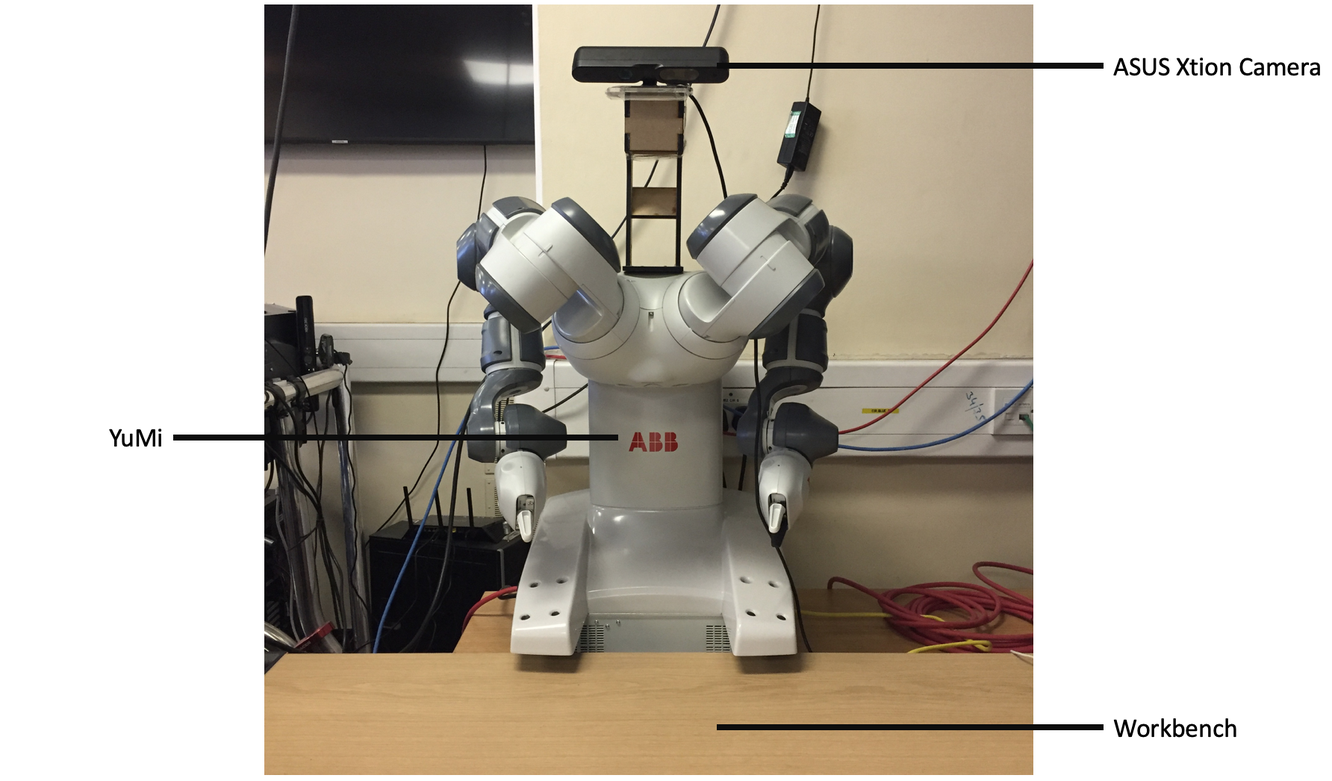
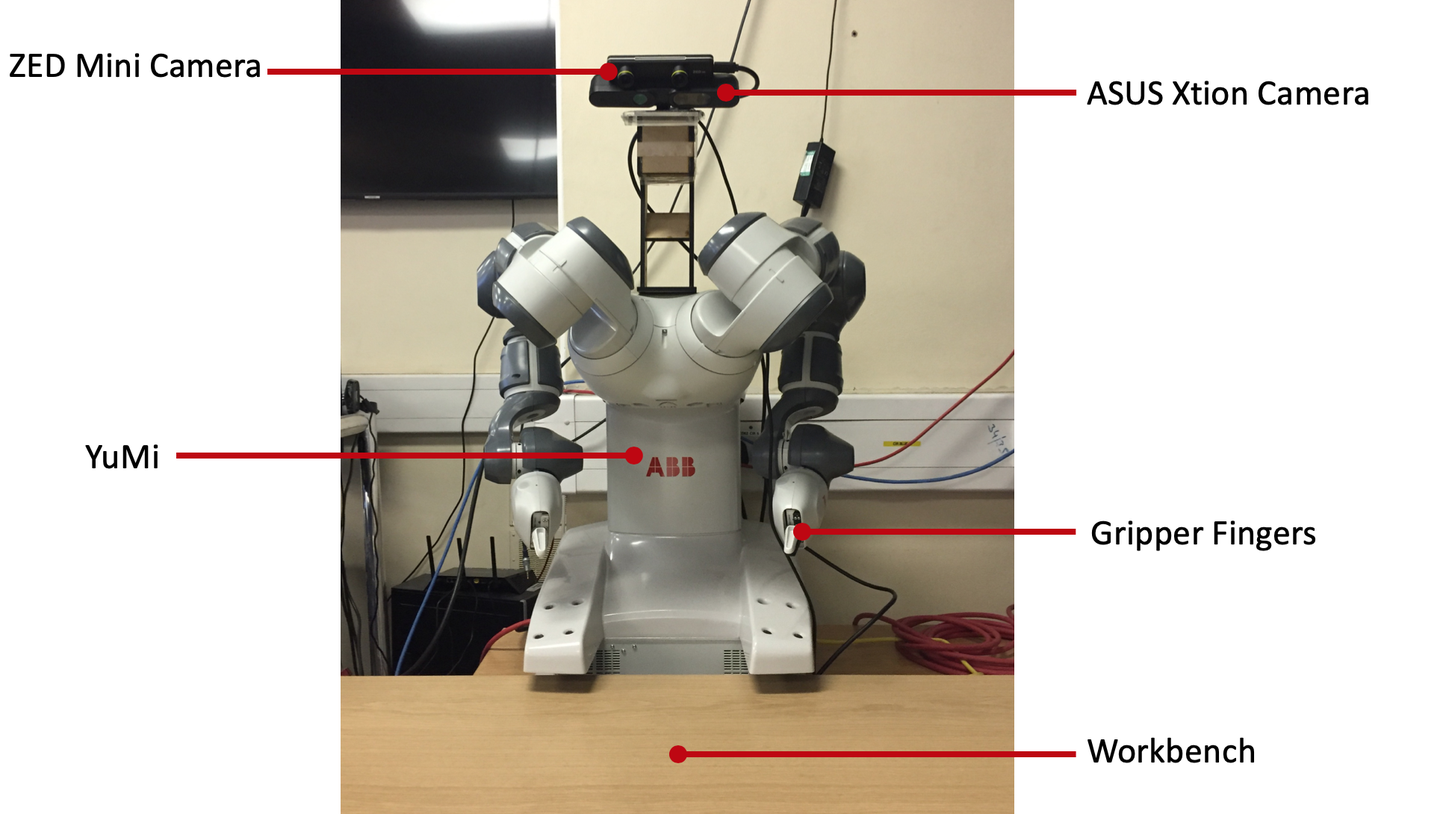
Updates from Overleaf

diff --git a/background/background.tex b/background/background.tex
@@ -25,7 +25,7 @@ The purpose of robotic motion planning is to seek the solution of the problem of
 
 \begin{itemize}
     \item \textbf{Work Space:} The physical space where the robot operates.
-    \item \textbf{Configuration/State Space:} The configuration that describes the robot pose. For a solid 3D robot like YuMi, it can perform both rotation and translation. Therefore, a configuration needs 6 parameters: (x, y, z) for translation and (roll, pitch, yaw) for rotation, whose relationships are shown in Figure \ref{rpy}.
+    \item \textbf{Configuration/State Space:} The configuration that describes the robot pose. For a solid 3D robot like YuMi, it can perform both translation and rotation. Therefore, a configuration needs 6 parameters: (x, y, z) for translation and (roll, pitch, yaw) for rotation, whose relationships are shown in Figure \ref{rpy}.
 \end{itemize}
 
 \begin{figure}[H]
@@ -44,17 +44,33 @@ The purpose of robotic motion planning is to seek the solution of the problem of
 
 According to \citep{OMPLPrim20:online}, there are plenty of methods still applicable in many scenarios, including exact and approximate cell decomposition, control-based methods, potential fields, and randomized planning. The summary of each method is as follow.
 
+\begin{figure}[H]
+\centering
+\includegraphics[width = \columnwidth]{background/cell.png}
+\caption{From left to right: approximate cell decomposition, exact cell decomposition, and motion planning using exact cell decomposition. The blue regions are obstacles. \citep{celldecom}}
+\label{cell}
+\end{figure}
+
 \begin{itemize}
-    \item \textbf{Exact and Approximate Cell Decomposition:} This approach partitions the work space into discrete cells that corresponding to free space, where edges represent adjacency among cells and vertices indicate the individual cells. Therefore, the motion planning problem becomes a search from starting cell to the cell with goal position. This method has a trade off when setting the grid resolution. Coarser grid gives a faster search, but cannot find path for narrow parts of free space. Moreover, the number of points on the grid is exponentially proportional to configuration space dimension, which is inappropriate for this project.
-    
+    \item \textbf{Exact and Approximate Cell Decomposition:} This approach partitions the work space into discrete cells that corresponding to free space, where edges represent adjacency among cells and vertices indicate the individual cells (see Figure \ref{cell}). Therefore, the motion planning problem becomes a search from starting cell to the cell with goal position. This method has a trade off when setting the grid resolution. Coarser grid gives a faster search, but cannot find path for narrow parts of free space. Moreover, the number of points on the grid is exponentially proportional to configuration space dimension, which is inappropriate for this project.
+
     \item \textbf{Control-based Methods:} This method employed control theory and operates in continuous space. It typically uses feedback loops to manipulate the robot with minimal error. However, in complex dynamics environments, it is hard to calculate a feasible trajectory and the valid motions will be restricted.
-    
-    \item \textbf{Potential Fields:} This technique computes a vector at each point in the work space by summing up the an attractive force emanating from the goal, and a repulsive force from all obstacles. It treats the configuration of robot as a point in a potential field. Although it only requires little computation, navigating using gradient descent to follow the potentials to goal can fail due to local minima in the field.
+\end{itemize}
+
+\begin{figure}[H]
+\centering
+\includegraphics[width = 0.4\columnwidth]{background/potentialfield.png}
+\caption{The potential fields when there is a goal and an obstacle \citep{potential}}
+\label{potentialexample}
+\end{figure}
+
+\begin{itemize}
+    \item \textbf{Potential Fields:} This technique computes a vector at each point in the work space by summing up the an attractive force emanating from the goal, and a repulsive force from all obstacles (see Figure \ref{potentialexample}). It treats the configuration of robot as a point in a potential field. Although it only requires little computation, navigating using gradient descent to follow the potentials to goal can fail due to local minima in the field.
     
     \item \textbf{Randomized Planning:} Randomization can be effective in motion planning. For example, in potential fields, it has been shown that Brownian motions where applying a random action for a specific amount of time can effectively guide a system out of the local minima.
 \end{itemize}
 
-The state-of-art sampling-based motion planning was inspired by randomization \citep{OMPLPrim20:online}, which employs sampling of the configuration space of the robot to effectively answer planning queries. It is especially suitable for systems with many degrees of freedom or differential constraints. Due to motion constraints and size of configuration space, traditional methods can spend a long time to address these problems. While sampling-based planning reasons over a finite set of configurations and connects these samples though collision free paths. Usually, this method gives a probability to complete, as the the number of samples reasoned increases, the probability will converge to 1 if a solution exists. Nevertheless, it cannot determine if a problem has no solution, which can only be speculated by low probability. 
+The state-of-art sampling-based motion planning was inspired by randomization \citep{OMPLPrim20:online}, which employs sampling of the configuration space of the robot to effectively answer planning queries. It is especially suitable for systems with many degrees of freedom or differential constraints. Due to motion constraints and size of configuration space, traditional methods can spend a long time to address these problems. While sampling-based planning reasons over a finite set of configurations and connects these samples through collision free paths. Usually, this method gives a probability to complete, as the the number of samples reasoned increases, the probability will converge to 1 if a solution exists. Nevertheless, it cannot determine if a problem has no solution, which can only be speculated by low probability. 
 
 There are many existing sampling-based algorithms, such as Rapidly-expanding Random Trees \citep{RRT}, Probabilistic Roadmap Method \citep{Kavraki1996ProbabilisticRF}, Kinodynamic Planning by Interior-Exterior Cell Exploration \citep{Sucan2012AST} etc. Two typical planners are discussed below.
 
@@ -94,20 +110,22 @@ In this case, after defining the configuration space, only start state, goal sta
 
 \section{Camera's Choice}
 
-Due to the fact that this project requires 3D localization of interested objects (shoes, shoe hole etc.), the camera must be able to provide depth information, which allows user to segment images. There are two types of RGB-D cameras available in the Lab, ASUS Xtion PRO and Microsoft Kinect.
+Due to the fact that this project requires 3D localization of interested objects (shoes, shoe hole etc.), the camera must be able to provide depth information, which allows user to segment images. There are two types of RGB-D cameras available in the Lab, ASUS Xtion PRO and Microsoft Kinect. Both cameras provide similar functionalities, they all have an infrared emitter (leftmost), RGB camera (middle), and an infrared depth camera (rightmost). Their resolutions are also the same, which is $640 \times 480$. Considering the ASUS Xtion PRO has already been fixed on the robot, I used it directly for this project.
 
 \begin{figure}[H]
 \centering
-\subfigure[ASUS Xtion PRO]{\includegraphics[width = 0.45\columnwidth, height = 40mm]{background/asus.jpg}}
-\subfigure[Microsoft Kinect]{\includegraphics[width = 0.45\columnwidth, height = 36mm]{background/kinect.png}}
-\caption{Two available cameras}
+\subfigure[ASUS Xtion PRO]{\includegraphics[width = 0.35\columnwidth]{background/asus.jpg}}
+\subfigure[Microsoft Kinect]{\includegraphics[width = 0.3\columnwidth]{background/kinect.png}}
+\subfigure[ZED Mini]{\includegraphics[width = 0.3\columnwidth]{background/zedmini.jpg}}
+\caption{Three available cameras}
 \label{camera}
 \end{figure}
 
-Both cameras provide similar functionalities, they all have a infrared emitter (leftmost), RGB camera (middle), and a infrared depth camera (rightmost). Considering the ASUS Xtion PRO has already been fixed on the robot, I opted to use it directly for this project.
+In the later stage of this project, another stereo camera named ZED Mini became available. It has two lenses with a separate film frame for each lens, which allows it to simulate human vision, and capture three-dimensional images. Its resolution is up to $2208 \times 1242$, much higher than that of ASUS Xtion and Kinect. Therefore, I ended up choosing this camera.
+
 
 \section{Object Detection} \label{od}
-Object detection is considered as one main part of computer vision, which can provide 2D positions of interested objects from an image. With the help of corresponding depth information provided by ASUS Xtion PRO, 3D location can then be determined. At present, there are several existing methods to detect the object's 2D location.
+Object detection is considered as one main part of computer vision, which can provide 2D positions of interested objects from an image. With the help of corresponding depth information provided by ASUS Xtion or ZED Mini, 3D location can then be determined. At present, there are several existing methods to detect the object's 2D location.
 
 Due to the fact that the number of occurrences of interested objects is not fixed, and they might have different spatial locations within the image and different aspect ratios, taking different regions from the image and using CNN to classify the presence of the object could computationally blow up \citep{RCNNFast65:online}. Therefore, plenty of detection algorithms like R-CNN \citep{RCNN}, YOLO \citep{YOLO} etc have been developed to tackle this problem. 
 
@@ -128,7 +146,7 @@ In order to manipulate objects using robot, the 3D orientation of interested obj
 
 There are several existing state-of-the-art 6D object pose estimation (3D location and 3D orientation) methods. \citep{singleshot} proposed a real-time single-shot approach to predict object's 6D pose, which does not require additional post-processing. They first employed CNN to compute 2D image locations of projected vertices of the object’s 3D bounding box. Then a PnP algorithm is utilized to estimated 6D pose. However, these kind of methods become unreliable when low-texture or low-resolution inputs are given. \citep{PoseCNN} introduced PoseCNN, estimates the object's 3D rotation by regressing to a quaternion representation using only color images. They also presented a novel loss function to let PoseCNN handle symmetric objects. Depth data is used for further refinement. \citep{DeepIM} presented DeepIM, given an initial pose estimation, it can refine the object's pose by matching the rendered image against the observed image iteratively. DeepIM only uses color images to introduce the untangled pose representation, which is independent of the 3D object model's coordinate frame and the object size. \citep{DenseFusion} proposed DenseFusion, which processes both color and depth information separately and employs a dense fusion network to extract pixel-wise dense feature embedding, from which the pose of known objects can be predicted. Moreover, it is robust against occlusions and outperforms PoseCNN after refinement on two benchmarks for 6D pose estimation, YCB-Video \citep{PoseCNN} and LineMOD \citep{linemod} respectively.
 
-However, these algorithms only compute object (shoe) pose, after retraining them using shoe dataset which needs to be prepared by myself. In addition, they cannot calculate the orientation of specific region on the interested object, such as shoe holes'. In order to achieve this function, the 6D pose correlations of shoe holes and centroid of shoe need to be determined. Then once these algorithms compute shoe pose, the pose of holes can be determined accordingly. Nevertheless, calculating these correlations are difficult and time consuming. Therefore, based on these considerations, those 6D pose estimation approaches cannot be my first choice.
+However, these algorithms only compute object (shoe) pose, after retraining them using shoe dataset which needs to be prepared by myself. In addition, they cannot calculate the orientation of specific region on the interested object, such as shoe holes'. In order to achieve this function, the 6D pose correlations of shoe holes and centroid of shoe need to be determined. After that, once these algorithms compute shoe pose, the pose of holes can be determined accordingly. Nevertheless, calculating these correlations are difficult and time consuming. Therefore, based on these considerations, those 6D pose estimation approaches cannot be my first choice.
 
 To tackle this problem, another method I came up with is inspired by Random Sample Consensus (RANSAC) \citep{rsc}. RANSAC can estimate parameters of mathematical model from a set of data containing both inliers and outliers. It selects random subset of the original data interatively to form hypothetical inliers and then tests this hypothesis as follows:
 
@@ -152,7 +170,7 @@ Each time of this procedure will produce a refined model with a corresponding er
 
 RANSAC can estimate the model parameters accurately even if the number of outliers is large. Its computation time is determined by the number of iterations and thus there is a trade-off between time and accuracy. Furthermore, the problem-specific thresholds need to be set as well. Figure \ref{ransac} is the example of applying RANSAC on 2D dataset to estimate a best fitting line.
 
-For this project, the orientation of a shoe hole can be represented as the normal vector of it. The method I introduce is by applying RANSAC technique to construct a plan of interested shoe hole, then computing the normal vector accordingly. Moreover, with the help of some pre-defined constraints and data processing techniques, the resulting orientation is accurate and robust.
+For this project, the orientation of a shoe hole can be represented as the normal vector of it. The method I introduce is by applying RANSAC technique to construct a plane of interested shoe hole, then computing the normal vector accordingly. Moreover, with the help of some pre-defined constraints and data processing techniques, the accuracy and robustness of resulting orientation can be improved.
 
 \section{System and Software}
 All programs of this project will run under Ubuntu system. ROS will act as the middleware between YuMi and the software, which creates a network of Nodes in order to control different functionalities of the robot. By sending messages from one Node to others, communication can be achieved between Nodes. To be specific, the sender advertises on a given topic, while the receiver subscribes the corresponding topic. After compiling a standalone program into a ROS package, it is able to run on the ROS network. In addition, these programs need to be written in Python or C++.

diff --git a/Implementation/implement_cv.tex b/Implementation/implement_cv.tex
@@ -1,9 +1,23 @@
 \chapter{Implementation - Computer Vision}
 
-This chapter will cover the implementation method on computer vision side of this project. The final outcome is to accurately obtain the 6D pose of the interested shoe hole. The entire code for this part can be seen in !!!!!!!!!!
+This chapter will cover the implementation methods on computer vision side of this project using either ASUS Xtion or ZED Mini. By adjusting some settings which will be discussed in this chapter, the algorithm works for both cameras. The entire code for this part can be seen in !!!!!!!!!!
 
 \section{Camera Setup}
-The communication between ASUS Xtion camera and ROS depends on $openni2$ package, which contains corresponding launch files. Using the command $roslaunch$ $openni2\_launch$ $openni2.launch$ can start the $openni2$ driver. After that, a list of camera topics including RGB, depth, and infrared images or point-clouds etc can be subscribed for further processing. For ASUS Xtion camera, the image resolution is $640 \times 480$. 
+The dependency package allow specific camera to communicate with ROS is shown in Table \ref{camerapackage}, which contains corresponding launch files. Entering the launch command in the terminal can start the package driver. After that, a list of camera topics including RGB, depth, and point-clouds etc can be subscribed for further processing. 
+
+\begin{table}[H]
+\centering
+\resizebox{\columnwidth}{!}{
+\begin{tabular}{||c||c|c||}
+\hline
+Camera & Dependency package & Launch command \\ \hline \hline
+ASUS Xtion & $openni2$ & $roslaunch$ $openni2\_launch$ $openni2.launch$ \\ \hline
+ZED Mini & $zed-ros-wrapper$ & $roslaunch$ $zed\_wrapper$ $zedm.launch$ \\ \hline
+\end{tabular}
+}
+\caption{The dependency packages and launch commands for Cameras}
+\label{camerapackage}
+\end{table}
 
 In ROS, video streams are represented by these sequences of images. If user would like to use ROS images in conjunction with OpenCV, $CvBridge$ package provides the converting interface, which is used in this project as well.
 
@@ -14,14 +28,32 @@ In ROS, video streams are represented by these sequences of images. If user woul
 \label{5.1}
 \end{figure}
 
-Figure \ref{5.1} displays the relative position between YuMi and the camera, which is defined as follows in the launch file so that ROS $TF$ can perform frame transform.
-
-\begin{minted}[frame=single, framesep=1.5mm, baselinestretch=1, fontsize=\footnotesize, linenos, breaklines]{xml}
-<node pkg="tf" type="static_transform_publisher" name="rgb_tf" required="true" args="0.2013 0.0641 0.6934 -0.0238 0.4836 -0.0141 0.875 /yumi_base_link /camera_link 100"/>
-\end{minted}
+Figure \ref{5.1} displays the relative position between YuMi and the two cameras. The cameras' location and orientation transform from YuMi frame $yumi\_base\_link$ are illustrated in Table \ref{cameraframeset} and written in the YuMi launch file (see !!!!!!!). These data are measured manually, which allow ROS $TF$ to perform frame transformation between any camera detected objects and YuMi in this project. 
+\begin{table}[H]
+\centering
+\resizebox{\columnwidth}{!}{
+\begin{tabular}{||c||c|c||}
+\hline
+Camera & Camera frame & Transform from $yumi\_base\_link$ \\ \hline\hline
+ASUS Xtion & /camera\_link & {[}0.2013, 0.0641, 0.6934, -0.0238, 0.4836, -0.0141, 0.875{]} \\ \hline
+ZED Mini & /zed\_left\_camera\_frame & {[}0.2263, 0.0541, 0.7134, -0.0238, 0.4836, -0.0141, 0.875{]} \\ \hline
+\end{tabular}
+}
+\caption{Transform settings between YuMi and cameras}
+\label{cameraframeset}
+\end{table}
 
 \section{Shoe Detection} \label{shoedetection}
-As mentioned in Background Chapter, YOLO9000 will be used for shoe detection. \citep{bjelonicYolo2018} developed the YOLO ROS interface called $darknet\_ros$, which supports using YOLO on both CPU and GPU. This package depends on OpenCV, boost (C++ library) and CUDA (if use Nvidia GPU for faster processing). Detailed installation and setup instructions can be found in User Guide Chapter. By adding different version of $.weights$ and $.cfg$ files, creating corresponding configuration file ($yolo.yaml$), then pointing to the new $yolo.yaml$ file in the $darknet\_ros$ launch file, different version of YOLO can be used. Here, YOLO9000 is the choice.
+As mentioned in Background Chapter, YOLO9000 will be used for shoe detection. \citep{bjelonicYolo2018} developed the YOLO ROS interface called $darknet\_ros$, which supports using YOLO on both CPU and GPU. This package depends on OpenCV, boost (C++ library) and CUDA (if use Nvidia GPU for faster processing). Detailed installation and setup instructions can be found in User Guide Chapter. 
+
+\begin{figure}[H]
+\centering
+\includegraphics[width = 0.5\columnwidth]{images/ph.png}
+\caption{Important files in Yolo package}
+\label{yolofolder}
+\end{figure}
+
+By adding different version of $.weights$ and $.cfg$ files, creating corresponding configuration file ($yolo.yaml$), then pointing to the new $yolo.yaml$ file in the $darknet\_ros$ launch file, different version of YOLO can be used. Here, YOLO9000 is the choice.
 
 \begin{figure}[H]
 \centering
@@ -31,7 +63,7 @@ As mentioned in Background Chapter, YOLO9000 will be used for shoe detection. \c
 \label{5.2}
 \end{figure}
 
-In the $yolo.yaml$ file, the threshold value is set to 0.3, which means the results will be reported only if the prediction probability of detection classes exceeds this value. The file named $ros.yaml$ defines the names and some parameters of the publishers, subscribers and actions of $darknet\_ros$. Here, the input is set as camera topic $/camera/rgb/image\_raw$, which contains raw RGB images taken by ASUS Xtion. It publishes several topics but only $/darknet_ros/bounding\_boxes$ will be used in the following algorithms. The messages in this topic include the prediction class names of objects, their prediction probabilities and 2D bounding box coordinates ($xmin$, $xmax$, $ymin$, and $ymax$). If the category is predicted as 'shoe', the corresponding box coordinates will be recorded. By speeding up with GPU, $darknet\_ros$ can update the detection results approximately every 0.05 seconds.
+In the $yolo.yaml$ file, the threshold value is set to 0.3, which means the results will be reported only if the prediction probability of detection classes exceeds this value. The file named $ros.yaml$ defines the names and some parameters of the publishers, subscribers and actions of $darknet\_ros$. Here, the input is set as camera topic $/camera/rgb/image\_raw$, which contains raw RGB images taken by ASUS Xtion. It publishes several topics but only $/darknet\_ros/bounding\_boxes$ will be used in the following algorithms. The messages in this topic include the prediction class names of objects, their prediction probabilities and 2D bounding box coordinates ($xmin$, $xmax$, $ymin$, and $ymax$). If the category is predicted as 'shoe', the corresponding box coordinates will be recorded. By speeding up with GPU, $darknet\_ros$ can update the detection results approximately every 0.05 seconds.
 
 \begin{figure}[H]
 \centering
@@ -45,6 +77,8 @@ In the $yolo.yaml$ file, the threshold value is set to 0.3, which means the resu
 \end{figure}
 
 In addition, the shoe can be placed in different directions, making the real manipulation difficult in some cases, especially when it is vertically placed (Figure \ref{ver1} and \ref{ver2}). Therefore, under this circumstance, its orientation need to be adjusted. To achieve that, the 2D coordinates 'around' the shoe bounding box will be documented (code!!!!!!!!!!!!!!!!!!!!!!) and detailed adjustment implementation can be found in Section \ref{adj}. After adjustment, the direction of the shoe and the interested shoe hole is considered to be toward the side of the camera.
+
+\section{Required Locations for Shoe Pose Adjustment:}
 
 \section{Shoe Hole Tracking}
 Since the shoe is marked, shoe hole detection can be achieved with color detection. Due to the fact that color tracking is very sensitive to light condition, perform this technique using entire image cannot provide accurate results. Therefore, the image will firstly be cropped using $xmin$, $xmax$, $ymin$, and $ymax$ value computed in previous section. Color detection only applies to the cropped region of interest.
@@ -88,7 +122,7 @@ The image of shoe always contains a certain level of high frequency noise. Vario
 
 The contour(s) of blue area(s) are then calculated. If at least one contour is discovered, the largest one in the mask will be used and its centroid is computed accordingly. Noticed that this centroid coordinate is for the cropped image. Therefore, $xmin$ and $ymin$ must be added back to give the coordinate of the original $640 \times 480$ image. Finally, if the contour area lies between a predefined range, the calculated centroid will be regarded as the centroid of the shoe hole and used for further computation.
 
-\section{3D Location Estimation} \label{3dlocationestimation}
+\section{3D Location of Shoe Hole} \label{3dlocationestimation}
 Once the real-time 2D position of shoe hole is calculated, its real-world 3D location can be obtained by looking at $/camera/depth\_registered/points$ topic. This topic contains depth registered point clouds as shown in Figure \ref{ptcloud}. depth align!!!!!!!!!!!!!!!!
 
 \begin{figure}[H]
@@ -118,7 +152,7 @@ Notice that the reading is based on camera frame called $camera\_link$ and camer
 \caption{Example of shoe hole 3D location estimation}
 \end{figure}
 
-\section{3D Orientation Estimation}
+\section{3D Orientation of Shoe Hole}
 Due to the fact that the surrounding area of the shoe hole can be regarded as a plane, as shown in Figure \ref{plane}, its 3D orientation is the same as that of the plane. In addition, the orientation of a plane can be obtained from its plane equation. For a plane $Ax + By + Cz = D$, its normal vector is $n = Ai + Bj + Ck$.
 
 \begin{figure}[H]
@@ -161,4 +195,4 @@ The final $norm\_shoe\_hole$ are then be published to $TF$ topic as a transform 
 \end{figure}
 
 
-%\section{Stage Two...}
+\section{3D Orientation of Shoelace}

diff --git a/RequirementsCap/requirementscap.tex b/RequirementsCap/requirementscap.tex
@@ -3,7 +3,7 @@
 %The project specification should state clearly what the project is intended to deliver, including all hardware, software, simulation.
 
 \section{The Project Deliverable}
-The objective of this project is to solve of problem of putting shoe laces on a shoe using bi-manual robot YuMi. Starting with one arm holding the shoelace, YuMi should detect a shoe hole and pass the shoelace through it by planning an arm trajectory. For more challenging version, YuMi will also plan sequences of trajectories to completing more holes up to the whole shoe.
+The objective of this project is to solve of problem of putting shoe laces on a shoe using bi-manual robot YuMi. Starting with one arm holding the shoelace, YuMi should detect a shoe hole and pass the shoelace through it by planning an arm trajectory. For more challenging version, YuMi will also plan sequences of trajectories to complete more holes up to the whole shoe.
 
 \begin{figure}[H]
 \centering
@@ -17,28 +17,30 @@ To constrain the problem, a shoe with distinct lace and hole colors will be used
 The core project deliverable can be divided into two main parts: Computer Vision and Motion Planning.
 
 \section{Computer Vision}
-This part aims to compute the real-time 6D pose of a specific shoe hole. The algorithm must provide an accurate and stable result so that it can be used for actual shoe lace manipulation. The following features should be delivered:
+The main aim of this part is to compute the real-time 6D pose of a specific shoe hole. There are also other tasks include providing the YuMi end-effector with the positional information needed for shoe pose adjustment, calculating the shoelace orientation before entering the second hole, etc. The algorithm must provide an accurate and stable result so that it can be used for actual shoe lace manipulation. The following features should be delivered:
 
 \begin{itemize}
+    \item \textbf{Camera Setup:} Setting up the working environment for two cameras and YuMi, measuring the position and orientation relationships between them, and installing camera dependency packages.
     \item \textbf{Shoe Detection:} Detecting the 2D bounding box of the shoe when it is placing on the workbench.
-    \item \textbf{Shoe Hole Tracking:} Detecting the 2D position of interested shoe hole and its contour area
-    \item \textbf{3D Location Estimation:} Computing the 3D real-world location of the centroid of that hole
-    \item \textbf{3D Orientation Estimation:} Computing the 3D orientation of that hole
-    %\item \textbf{Shoelace Localization:}
+    \item \textbf{Required Locations for Shoe Pose Adjustment:} Computing a series of 3D locations required by YuMi in order for it to adjust the pose of the shoe.
+    \item \textbf{Shoe Hole Tracking:} Detecting the 2D pixel position of interested shoe hole and its contour area.
+    \item \textbf{3D Location of Shoe Hole:} Computing the 3D real-world location of the centroid of that hole.
+    \item \textbf{3D Orientation of Shoe Hole:} Computing the 3D orientation of that hole
+    \item \textbf{3D Orientation of Shoelace:}
 \end{itemize}
 
 
 \section{Motion Planning}
-This part focus on real-world motion planning of YuMi's arms. The outcome of this part should enable YuMi to put shoe lace into a hole accurately while avoiding any collisions with obstacles. Once finishing, both arms should return to their default poses. Following tasks must be completed:
+This part focus on real-world motion planning of YuMi's arms. The outcome of this part should enable YuMi to adjust the orientation of the shoe if necessary, and then put shoe lace into a hole accurately while avoiding any collisions with obstacles. Finally, YuMi should pull the shoelace out to complete that hole. Once finishing, both arms should return to their default poses. Following tasks must be completed:
 
 \begin{itemize}
     \item \textbf{MoveIt! Interface and Planning Scene Setup:} Setting up the MoveIt! Python interface, and initializing the manipulating environment by defining obstacles' dimension and position.
     \item \textbf{Movement Control:} Setting up the control interface among my control instructions and YuMi's grippers and arms.
-    \item \textbf{Safe Positions Calculation:} Calculating several safety poses of YuMi's arms, including home poses, initial poses etc.
+    \item \textbf{Safe Positions Calculation:} Calculating several safe poses of YuMi's arms, including cal pose, home pose and initial pose.
     \item \textbf{Shoe Pose Adjustment:} Adjusting the orientation of shoe using YuMi gripper if its pose is not ideal. 
     \item \textbf{Robot Gripper Approaching Pose:} Computing the 6D approaching pose to the interested shoe hole.
-    \item \textbf{Offset Adjustment:} Adjusting the offset between camera readings and YuMi movement, especially its influence on gripper's pose.
-    \item \textbf{Shoelace Grabbing:}
+    \item \textbf{Offset Adjustment:} Adjusting the offset between camera readings and YuMi movement, especially offset introduced by the gripper's pose.
+    \item \textbf{Shoelace Grabbing:} Computing the 6D shoelace grasping pose in order to pull it out.
 \end{itemize}
 
 

diff --git a/AnalysisDesign/analysisdesign.tex b/AnalysisDesign/analysisdesign.tex
@@ -3,9 +3,9 @@
 \section{ROS and YuMi Overview}
 As discussed in the Background Chapter, ROS handles a number of independent Nodes that performs specific function(s). They communicate with each other by publishing messages to topics or subscribing them. ROS messages support several data formats, including number, string, and time etc. Moreover, these communications are only available if a $roscore$ is running, which is a collection of programs and Nodes that are prerequisites of a ROS-based system.
 
-Besides, $TF$ is an important package in ROS and used several times in this project. According to \citep{tfROSWik}, it maintains the relationship between coordinate frames (such as camera frame, robot fram etc.) in a tree structure buffered, which enables the user to transform points, vectors, etc between any two coordinate frames at any desired point in time. Details will be discussed in Implementation Chapter.
+Besides, $TF$ is an important package in ROS and used several times in this project. According to \citep{tfROSWik}, it maintains the relationship between coordinate frames (such as camera frame, robot fram etc.) in a tree structure buffered, which enables the user to transform points, vectors, etc between any two coordinate frames at any desired point in time. Details will be discussed in Implementation Chapters.
 
-The dual-arm robot YuMi communicates with ROS using Personal Robotics Lab setup (User Guide Chapter contains more details). YuMi has one gripper camera embedded in each of its gripper. Using these cameras may provide more accurate results of shoe and shoe hole locations. However, in order to use these two cameras, a package named $abb\_rws\_interface$ which is a proprietary interface of ABB is required. According to \citep{EGMfiles}, it is not public. Also, the open source version of that package called $abb\_librws$ cannot match the current $yumi\_cameras$ setup. Furthermore, it is not very feasible to tie a small camera to YuMi's arms. Therefore, this project will only utilize the ASUS Xtion camera for detection.
+The dual-arm robot YuMi communicates with ROS using Personal Robotics Lab setup (User Guide Chapter contains more details). YuMi has one gripper camera embedded in each of its gripper. Using these cameras may provide more accurate results of shoe and shoe hole locations. However, in order to use these two cameras, a package named $abb\_rws\_interface$ which is a proprietary interface of ABB is required. According to \citep{EGMfiles}, it is not public. Also, the open source version of that package called $abb\_librws$ cannot match the current $yumi\_cameras$ setup. Furthermore, it is not very feasible to tie a small camera to YuMi's arms. Therefore, this project will only utilize the ASUS Xtion or ZED Mini camera for detection.
 
 \section{System Overview}
 
@@ -16,9 +16,18 @@ The dual-arm robot YuMi communicates with ROS using Personal Robotics Lab setup 
 \label{c4}
 \end{figure}
 
-Figure \ref{c4} displays the system overview of this project, which consists six components: the shoe, ASUS Xtion camera, computer vision module, ROS Kinetic, motion planning module, and YuMi. Blue arrows represent computer vision messages and orange arrows indicate related motion plans and manipulation.
+Figure \ref{c4} displays the system overview of this project, which consists six components: the shoe, the camera, computer vision module, ROS Kinetic, motion planning module, and YuMi. Blue arrows represent computer vision messages and orange arrows indicate related motion plans and manipulations.
 
-Starting from the camera, which consistently recording RGB and depth images of the workbench and outputs them to the computer vision module. The module then performs several functions including shoe detection, shoe hole tracking, 6D shoe hole pose estimation etc. and publishes the corresponding message to ROS topics. After that, the motion planning module subscribes these information and plans YuMi arms trajectories accordingly to adjust shoe pose or put lace on a hole. If the planning succeeds, YuMi will then execute these motions to manipulate shoe and shoe lace.
+Starting from the camera, which consistently recording RGB and depth images of the workbench and outputs them to the computer vision module. The module then performs several functions including shoe detection, shoe hole tracking, 6D shoe hole pose estimation etc and publishes the corresponding message to ROS topics. After that, the motion planning module subscribes these information and plans YuMi arms trajectories accordingly to adjust shoe pose or put lace on a hole. If the planning succeeds, YuMi will then execute these motions to manipulate shoe and shoe lace.
+
+%detail---------------------------
+\section{System Workflow}
+
+\begin{figure}[H]
+\centering
+\includegraphics[width = 0.5\columnwidth]{images/ph.png}
+\caption{System workflow}
+\label{workflow}
+\end{figure}
 
 The following two chapters will discuss detailed implementation approaches.
-%detail---------------------------

diff --git a/introduction/introduction.tex b/introduction/introduction.tex
@@ -1,7 +1,7 @@
 \chapter{Introduction}
 %It should begin with a clear statement of what the project is about so that the nature and scope of the project can be understood by a lay reader. 
 
-In the past decades, robots have become an indispensable role in human life. Not only for the manufacturing industry, but there are also various types of robots in fields including healthcare, education, entertainment and military etc. No matter which category a robot belongs to, it is essential to endow the robot with some abilities so that it can perform corresponding tasks. Currently, there are mainly three approaches to teach skills to robots: direct programming, imitation learning and reinforcement learning, according to \citep{Kormushev_MDPI_2013}. However, there exists a trade-off between the difficulty to teach and computational complexity. Thus, a different approach should be adopted based on task specification.
+In the past decades, robots have become an indispensable role in human life. There are various types of robots in the fields of manufacturing, healthcare, education, entertainment and military etc. No matter which category a robot belongs to, it is essential to endow the robot with some abilities so that it can perform corresponding tasks. Currently, there are mainly three approaches to teach skills to robots: direct programming, imitation learning and reinforcement learning, according to \citep{Kormushev_MDPI_2013}. However, there exists a trade-off between the difficulty to teach and computational complexity. Thus, a different approach should be adopted based on task specification.
 
 \section{Motivation}
 Speaking of non-industry environments, robot manipulation tasks usually cannot rely on hard-coded knowledge about the scene structure. This is because the environment can be modified by human actions, which is unforeseeable. Thus, a vision-based object recognition and localization system is extremely useful for providing the robot with scene knowledge. By combining computer vision techniques with motion planning, it enables robots to perform tasks more flexible and equip with a certain degree of autonomy.
@@ -9,9 +9,9 @@ Speaking of non-industry environments, robot manipulation tasks usually cannot r
 \section{Objectives}
 %ability independently to formulate and solve technical problems in project work. 
 %project is intended to deliver, hardware, software, simulation, and analytical work.
-Therefore, as my final year project, I aim to develop an algorithm for a bi-manual robot (Icub, Baxter or ABB YuMi) so that it can tie up shoelaces automatically. In the core project, starting with one arm holding one end of the shoelace, the robot should detect a shoe hole and plan an arm trajectory to pass the shoelace through that hole. For more challenging subsequent versions, the robot should be able to complete the whole shoe based on the planned sequences of trajectories. 
+Therefore, as my final year project, I aim to develop an algorithm for a bi-manual robot so that it can put shoelace on a shoe. In the core project, starting with one arm holding one end of the shoelace, the robot should detect a shoe hole and plan an arm trajectory to pass the shoelace through that hole. As an extension, the robot should be able to plan sequences of trajectories in order to complete the whole shoe.
 
 \section{Challenges}
-The main challenge of the project is to calculate the angle at which the lace passes through the shoe hole. Secondly, how to use robot arms to achieve this task accordingly requires an accurate analysis. The optimal methods to localize the shoe hole and track shoelace need to be figured out as well. Moreover, plenty of tests regarding the motion planning algorithm need to be done in order to optimize the performance.
+Due to the relatively small size of the shoe hole, this project requires a high degree of precision. Firstly, the optimal methods to localize the shoe hole need to be figured out. Then, the main challenge is to calculate the direction in which the lace should pass through the shoe hole in the dynamic environment. In addition, how to use robot arms to achieve this task accordingly also requires an accurate analysis. Finally, plenty of tests regarding the whole system need to be done in order to optimize the performance.
 
 \section{Report Structure}

diff --git a/Implementation/implement_mp.tex b/Implementation/implement_mp.tex
@@ -1,6 +1,6 @@
 \chapter{Implementation - Motion Planning}
 
-The entire code for this part can be seen in !!!!!!!!!!
+This chapter will cover the implementation methods on motion planning side of this project. The entire code for this part can be seen in !!!!!!!!!!
 
 \section{MoveIt! Interface and Planning Scene Setup}
 As mentioned in Background Chapter, the motion planning part will utilize MoveIt!. The $moveit\_commander$ namespace is imported in order to use Python MoveIt! interface. This namespace contains a $RobotCommander$ class, a $MoveGroupCommander$ class, and a $PlanningSceneInterface$ class.
@@ -87,7 +87,7 @@ def plan_and_move_dual(target_l, target_r):
 \subfigure[cal]{\includegraphics[width = 0.32\columnwidth]{images/ph.png}}
 \subfigure[home]{\includegraphics[width = 0.32\columnwidth]{images/ph.png}}
 \subfigure[initial]{\includegraphics[width = 0.32\columnwidth]{images/ph.png}}
-\caption{Safety positions of YuMi}
+\caption{Safe positions of YuMi}
 \label{safeposition}
 \end{figure}
 
@@ -249,11 +249,28 @@ c = \arctan \frac{yp - y}{xp - x}
 \label{yawcalculation}
 \end{equation}
 
-Considering both top-left and top-right cases, the available range of $c$ is $[-\frac{\pi}{2}, \frac{\pi}{2}]$. When this condition is satisfied, the final grabbing pose can be written as Equation \ref{grabpose}.
+Considering both top-left and top-right cases, the available range of $c$ is $[-\frac{\pi}{2}, \frac{\pi}{2}]$. When this condition is satisfied, the final grabbing pose can be written as Equation \ref{grabpose}. The pre-grabbing pose is same as the grabbing pose except its $z$ value is a little bit higher, which allows !!!!!!!!!!
 
 \begin{equation}
 Grabbing\_pose = [xp + x\_offset, yp + y\_offset, zp + z\_error, 0, \pi, c + \frac{\pi}{2} - 0.26]
 \label{grabpose}
 \end{equation}
 
-Notice that the offset for 3D location is different form that of $Prepur\_pose$ and $Insertion\_pose$. This is because this time the gripper does not have any roll and pitch rotations from its default orientation. In addition, $-0.26$ is added to yaw rotation by taking into account of the !!!!!!!!!!!!!!!!
+Notice that, here, the offset for 3D location is different form that of $Prepur\_pose$ and $Insertion\_pose$. This is because this time the gripper does not perform any roll and pitch rotations from its default orientation. In addition, $-0.26$ is added to yaw rotation by taking into account of the !!!!!!!!!!!!!!!!
+
+\begin{figure}[H]
+\centering
+\includegraphics[width = 0.3\columnwidth]{images/ph.png}
+\caption{0.26}
+\label{0.26}
+\end{figure}
+
+\begin{figure}[H]
+\centering
+\subfigure[]{\includegraphics[width = 0.19\columnwidth]{images/ph.png}}
+\subfigure[]{\includegraphics[width = 0.19\columnwidth]{images/ph.png}}
+\subfigure[]{\includegraphics[width = 0.19\columnwidth]{images/ph.png}}
+\subfigure[]{\includegraphics[width = 0.19\columnwidth]{images/ph.png}}
+\subfigure[]{\includegraphics[width = 0.19\columnwidth]{images/ph.png}}
+\caption{Example of pulling shoelace out}
+\end{figure}

diff --git a/main.tex b/main.tex
@@ -32,7 +32,7 @@
 
 Robot motion planning based on computer vision is an important topic in the field of AI. While the majority applications allow for relatively large manipulation tolerance, such as pick and place. 
 
-In this project, I address the precise AI planning and control problem of putting shoelaces on a marked shoe using a bimanual robot, ABB YuMi, and an external camera, ASUS Xtion. Starting with one arm holding one end of the shoelace, YuMi can adjust the orientation of the shoe if necessary, then pass the shoelace through the shoe hole. As an extension, YuMi will also plan sequences of trajectories for completing more holes up to finishing the whole shoe.
+In this project, I address the precise AI planning and control problem of putting shoelaces on a marked shoe using a bimanual robot, ABB YuMi, and an external camera. Starting with one arm holding one end of the shoelace, YuMi can adjust the orientation of the shoe if necessary, then pass the shoelace through the shoe hole. As an extension, YuMi will also plan sequences of trajectories for completing more holes up to finishing the whole shoe.
 
 The main emphasis of this project is on computing the precise 6D pose of the shoe hole in order to estimate the approaching pose of YuMi’s arm accordingly. The final approach to tackle this problem is by combining random sample consensus (RANSAC) technique and some pre-defined constraints. Other topics including dual arm motion planning, object detection and localization, and accurate offset adjustment are also covered. Every single function, as well as the whole process, is then experimented and evaluated.
 \end{abstract}
@@ -40,6 +40,7 @@ The main emphasis of this project is on computing the precise 6D pose of the sho
 \renewcommand{\abstractname}{Acknowledgements}
 % It is usual to thank those individuals who have provided particularly useful assistance, technical or otherwise, during your project. 
 \begin{abstract}
+
 Thanks mum, dad, my family!
 
 Thanks my supervisor, friends, PhDs in Lab and YuMi!

diff --git a/TaR/tar.tex b/TaR/tar.tex
@@ -15,3 +15,4 @@ shoe pose adjustment
 ....
 
 \section{Overall Performance}
+
